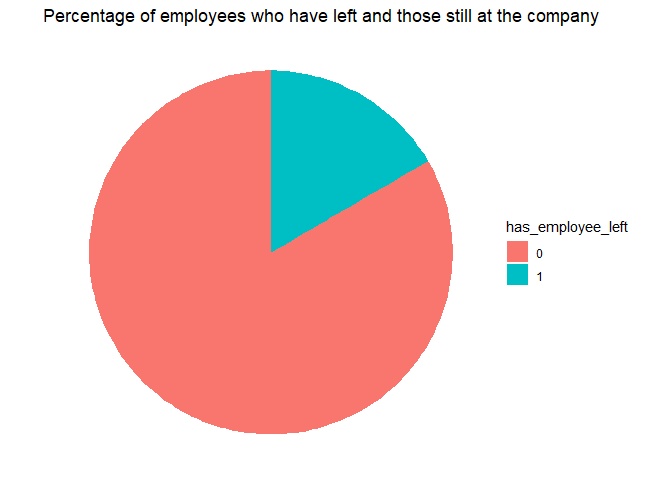
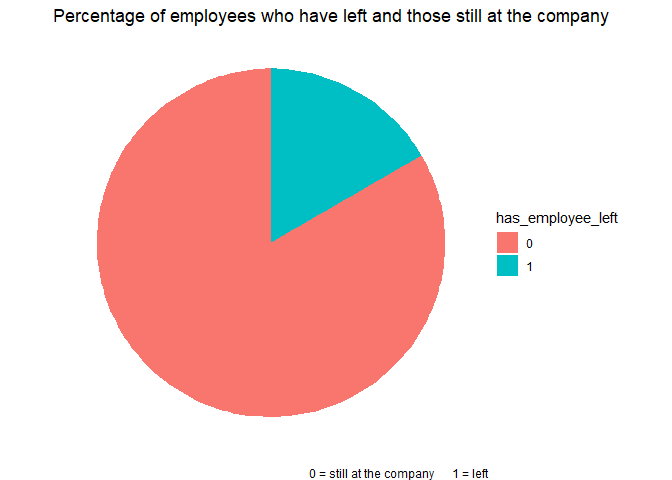
updated notebook

diff --git a/Turnover_Report.md b/Turnover_Report.md
@@ -632,7 +632,7 @@ data <- employee_profile_renamed %>%
 
 ggplot(data, aes(x = "", y = count_left, fill = has_employee_left)) +
   geom_col() + 
-  labs(title= "Percentage of employees who have left and those still at the company", ) +
+  labs(title= "Percentage of employees who have left and those still at the company", caption = "0 = still at the company \t     1 = left") +
   coord_polar(theta = "y") + 
   theme_void()
 ```
